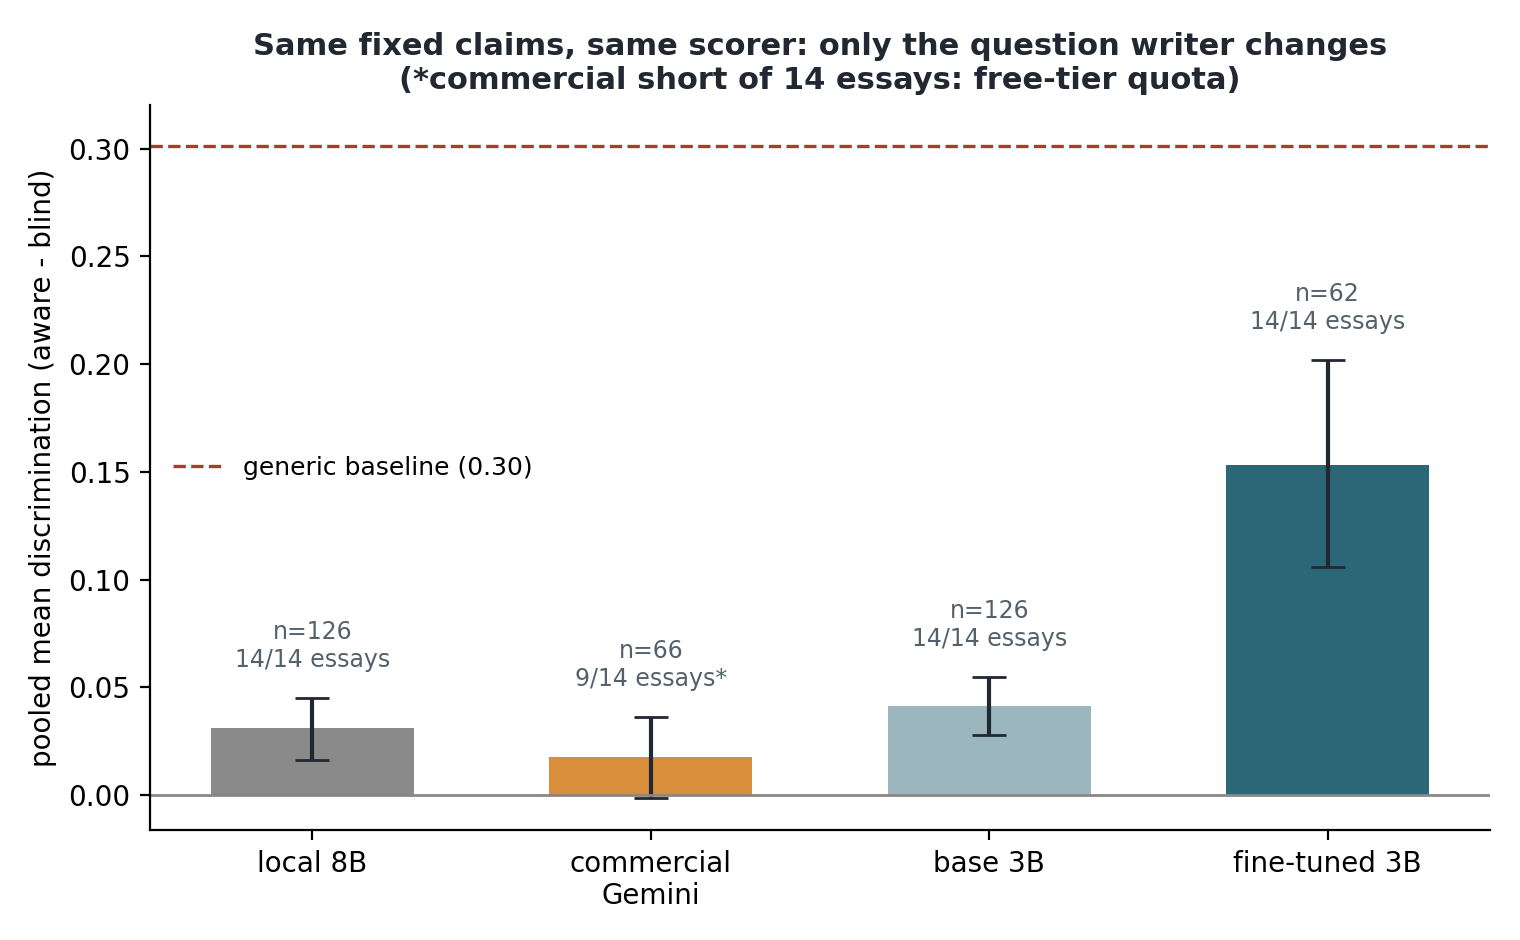
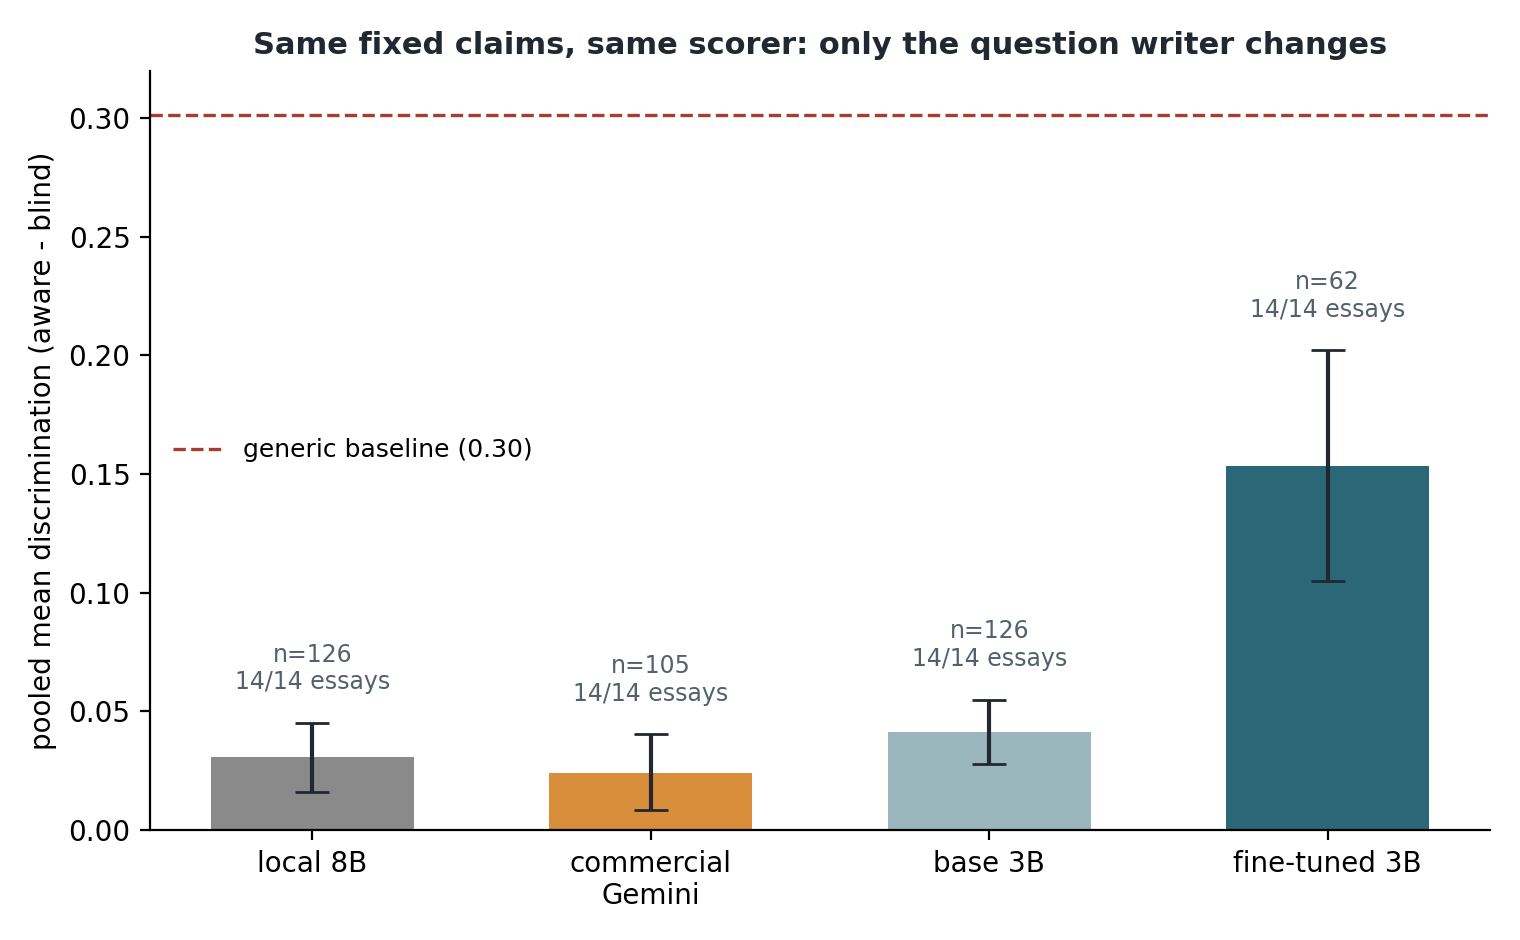
Fixed-claim comparison: the commercial edge disappears

diff --git a/src/evaluation/likeforlike_4way.py b/src/evaluation/likeforlike_4way.py
@@ -49,7 +49,10 @@ ARM_LABEL = {"local8b": "local 8B", "commercial": "commercial\nGemini",
 
 def free_ollama():
     for m in ("llama3.1:8b", "nomic-embed-text"):
-        subprocess.run([str(OLLAMA_EXE), "stop", m], capture_output=True)
+        try:
+            subprocess.run([str(OLLAMA_EXE), "stop", m], capture_output=True, timeout=30)
+        except subprocess.TimeoutExpired:
+            print(f"  (ollama stop {m} timed out; continuing)", flush=True)
     time.sleep(3)
 
 
@@ -236,8 +239,9 @@ def make_figure(result):
     ax.axhline(0, color="#888", lw=1)
     ax.set_ylim(top=max(0.32, max(ci[1] for ci in [result["arms"][x]["pooled_ci95"] for x in arms]) + 0.06))
     ax.set_ylabel("pooled mean discrimination (aware - blind)")
-    ax.set_title("Same fixed claims, same scorer: only the question writer changes\n"
-                 "(*commercial short of 14 essays: free-tier quota)",
+    short = [a for a in arms if result["arms"][a]["n_essays_covered"] < total]
+    subtitle = ("\n(*short of 14 essays: free-tier quota)" if short else "")
+    ax.set_title("Same fixed claims, same scorer: only the question writer changes" + subtitle,
                  fontsize=11, fontweight="bold", color="#222831")
     ax.spines[["top", "right"]].set_visible(False)
     fig.tight_layout()
